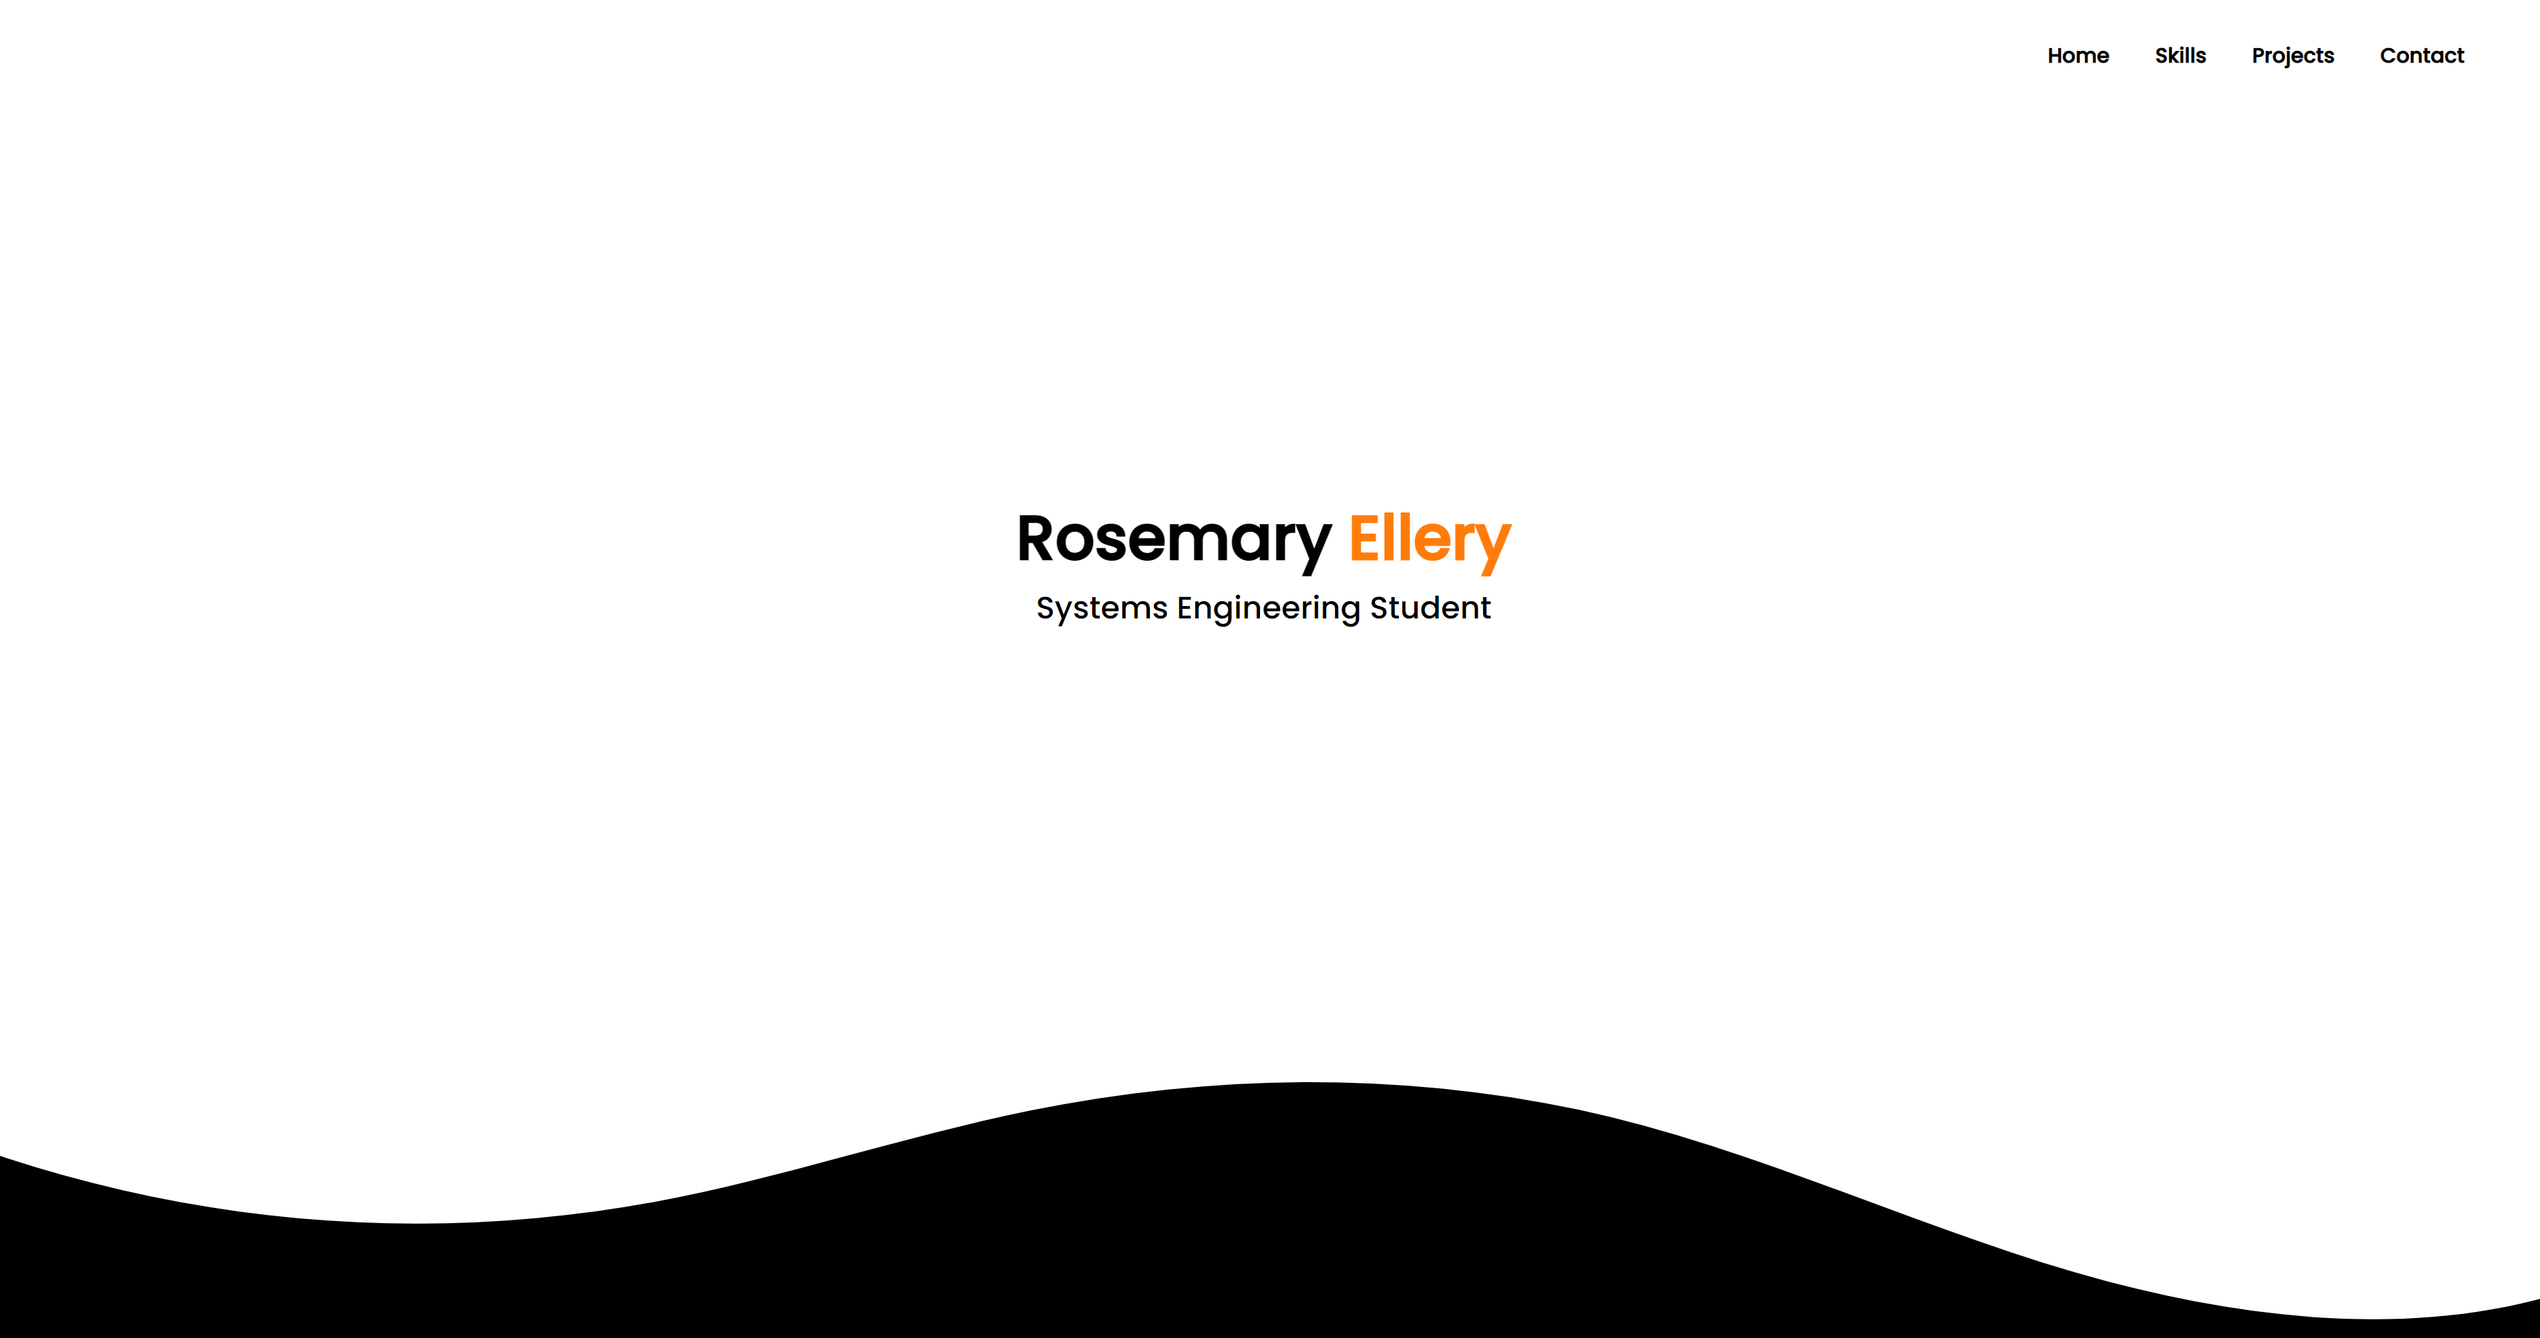
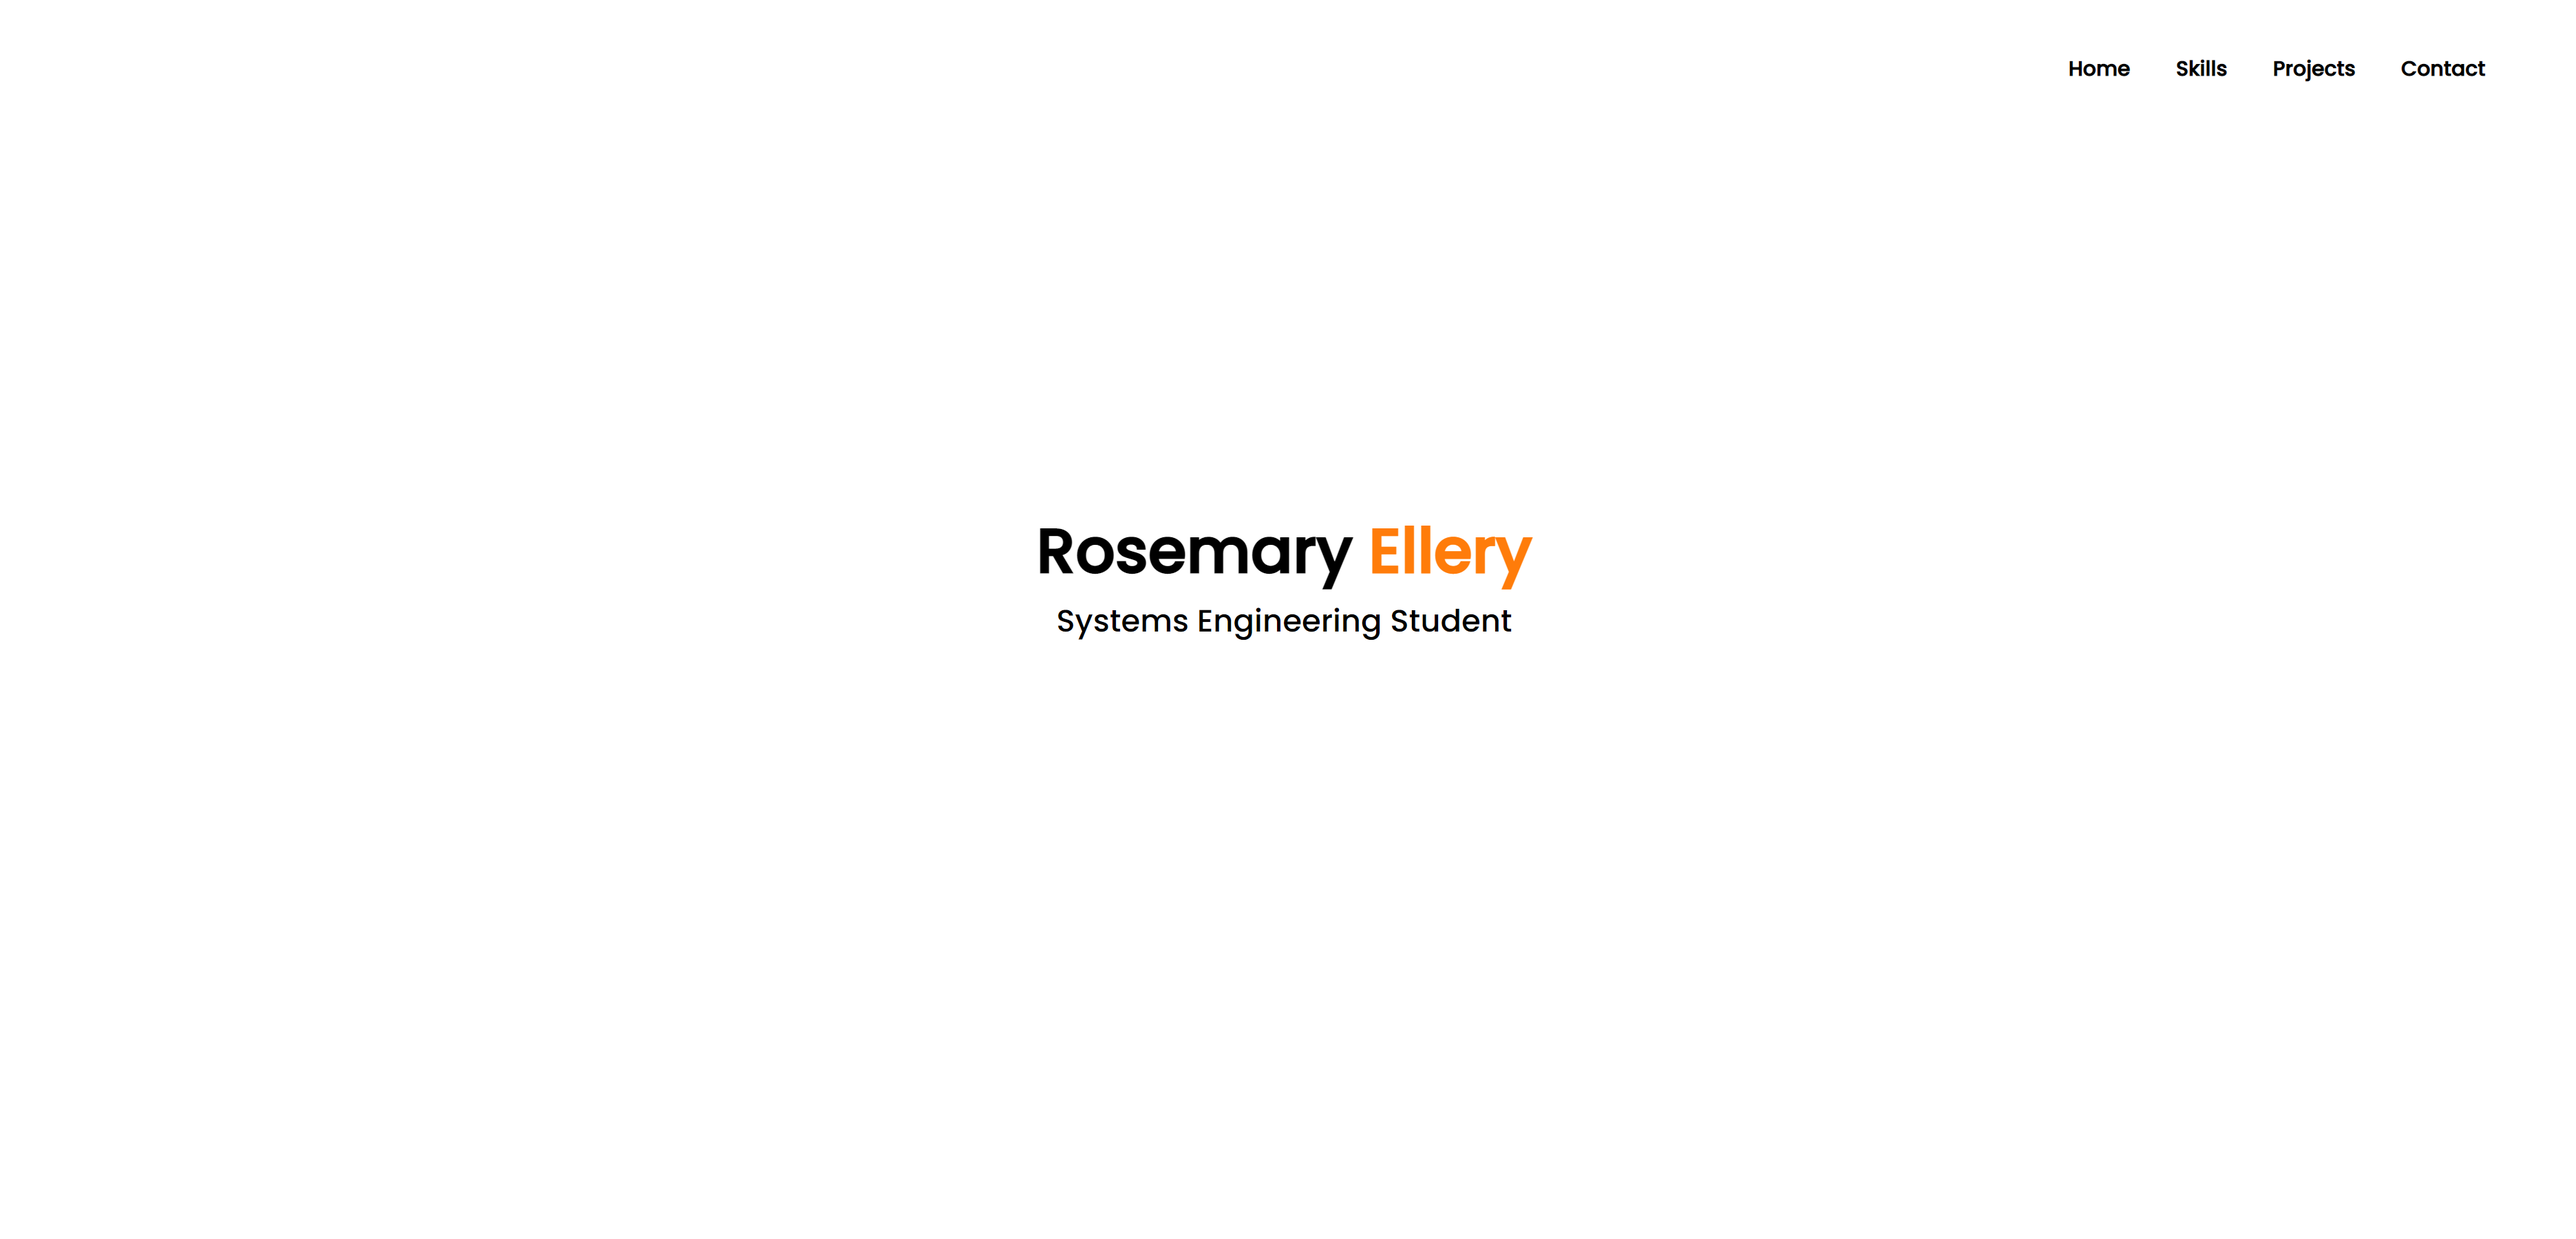
Links included.

diff --git a/index.html b/index.html
@@ -21,19 +21,19 @@
                 <path fill="#FF7C0A" d="M36.1,-54.9C45.3,-50.3,50.2,-37.7,56.6,-25.4C62.9,-13,70.7,-0.9,69,9.9C67.4,20.6,56.4,30,46.5,39C36.7,48,27.9,56.7,18.5,56.4C9.1,56.1,-0.9,46.8,-14.8,45.1C-28.7,43.5,-46.5,49.6,-51.9,44.4C-57.3,39.2,-50.3,22.7,-50.5,8.5C-50.6,-5.8,-57.9,-17.7,-57.8,-29.9C-57.7,-42,-50.3,-54.3,-39.4,-58.2C-28.6,-62,-14.3,-57.4,-0.4,-56.8C13.5,-56.1,26.9,-59.5,36.1,-54.9Z" transform="translate(100 100)" />
             </svg>
         </div> -->
-        <div class="navbar">
+        <div class="navbar" id="navbar">
             <nav class="navlinks">
                 <ul>
-                    <li><a href="#">Home</a></li>
-                    <li><a href="#">Skills</a></li>
-                    <li><a href="#">Projects</a></li>
-                    <li><a href="#">Contact</a></li>
+                    <li><a href="#navbar">Home</a></li>
+                    <li><a href="#skills">Skills</a></li>
+                    <li><a href="#projects">Projects</a></li>
+                    <li><a href="#contact">Contact</a></li>
                     <li></li>
                     <li></li>
                 </ul>
             </nav>
         </div>
-        <div class="home">
+        <div class="home" id="home">
             <h1>Rosemary <span style="color:#ff7c0a;">Ellery</span></h1>
             <div class="caption">
                 <p>Systems Engineering Student</p>
@@ -46,8 +46,10 @@
             <path d="M985.66,92.83C906.67,72,823.78,31,743.84,14.19c-82.26-17.34-168.06-16.33-250.45.39-57.84,11.73-114,31.07-172,41.86A600.21,600.21,0,0,1,0,27.35V120H1200V95.8C1132.19,118.92,1055.71,111.31,985.66,92.83Z" class="shape-fill"></path>
         </svg>
     </div> -->
-    <div class="skills">
+    <div class="skills" id="skills">
         <h1>Skills</h1>
+        <p>Python (inc. Django) - JavaScript (inc. React.js, Node.js) - C++ - HTML/CSS - MATLAB/Simulink - Neo4j - SQL/CQL - Git </p>
+        <!-- <div class="overlay"></div> -->
     </div>
     <!-- <div class="wave-bottom">
         <svg data-name="Layer 1" xmlns="http://www.w3.org/2000/svg" viewBox="0 0 1200 120" preserveAspectRatio="none">
@@ -55,34 +57,7 @@
         </svg>
     </div> -->
 
-    <div class="projects">
-        <div class="project-item">
-            <div class="project-card">
-                <div class="project-img">
-                    <img src="resources/images/logicgatevisualiserimage.png"/>
-                </div>
-                <div class="project-info">
-                    <h1 class="project-title">Perceptron Logic Gates Visualiser</h1>
-                    <hr class="project-divider"/>
-                    <p class="project-description">An app developed using the Django web framework that allows users to select a common logic gate, train a perceptron for its functionality, and view the resulting decision boundary plot.</p>
-                    <div class="project-tag">Python</div>
-                    <div class="project-tag">Django</div>
-                    <div class="project-tag">HTML/CSS</div>
-                    <div class="project-tag">Git</div>
-                </div>
-                <div class="hover-card">
-                    <h3>Visit Project</h3>
-                    <div class="icons">
-                        <div class="icon">
-                            <i class="fa fa-github"></i>
-                        </div>
-                        <div class="icon">
-                            <i class="fa fa-link" style="font-size:2.5rem"></i>
-                        </div>
-                    </div>
-                </div>
-            </div>
-        </div>
+    <div class="projects" id="projects">
         <div class="project-item">
             <div class="project-card">
                 <div class="project-img">
@@ -101,10 +76,40 @@
                     <h3>Visit Project</h3>
                     <div class="icons">
                         <div class="icon">
-                            <i class="fa fa-github"></i>
+                            <a href="https://rosemaryellery.github.io/wiki-holes/" target="_blank">
+                                <i class="fa fa-link"></i>
+                            </a>
                         </div>
                         <div class="icon">
-                            <i class="fa fa-link" style="font-size:2.5rem"></i>
+                            <a href="https://github.com/rosemaryellery/wiki-holes" target="_blank">
+                                <i class="fa fa-github"></i>
+                            </a>
+                        </div>
+                    </div>
+                </div>
+            </div>
+        </div>
+        <div class="project-item">
+            <div class="project-card">
+                <div class="project-img">
+                    <img src="resources/images/logicgatevisualiserimage.png"/>
+                </div>
+                <div class="project-info">
+                    <h1 class="project-title">Perceptron Logic Gates Visualiser</h1>
+                    <hr class="project-divider"/>
+                    <p class="project-description">An app developed using the Django web framework that allows users to select a common logic gate, train a perceptron for its functionality, and view the resulting decision boundary plot.</p>
+                    <div class="project-tag">Python</div>
+                    <div class="project-tag">Django</div>
+                    <div class="project-tag">HTML/CSS</div>
+                    <div class="project-tag">Git</div>
+                </div>
+                <div class="hover-card">
+                    <h3>Visit Project</h3>
+                    <div class="icons">
+                        <div class="icon">
+                            <a href="https://github.com/rosemaryellery/logic-gates-visualiser" target="_blank">
+                                <i class="fa fa-github"></i>
+                            </a>
                         </div>
                     </div>
                 </div>
@@ -126,10 +131,14 @@
                     <h3>Visit Project</h3>
                     <div class="icons">
                         <div class="icon">
-                            <i class="fa fa-github"></i>
+                            <a href="https://github.com/rosemaryellery/portfolio" target="_blank">
+                                <i class="fa fa-github"></i>
+                            </a>
                         </div>
                         <div class="icon">
-                            <i class="fa fa-link" style="font-size:2.5rem"></i>
+                            <a href="#navbar">
+                                <i class="fa fa-link" style="font-size:2.5rem"></i>
+                            </a>
                         </div>
                     </div>
                 </div>
@@ -141,7 +150,7 @@
             <path d="M985.66,92.83C906.67,72,823.78,31,743.84,14.19c-82.26-17.34-168.06-16.33-250.45.39-57.84,11.73-114,31.07-172,41.86A600.21,600.21,0,0,1,0,27.35V120H1200V95.8C1132.19,118.92,1055.71,111.31,985.66,92.83Z" class="shape-fill"></path>
         </svg>
     </div> -->
-    <footer>
+    <footer id="contact">
         <h1>Contact me:</h1>
         <div class="icons">
             <div class="icon">

diff --git a/resources/css/style.css b/resources/css/style.css
@@ -102,11 +102,37 @@ a {
     color: white;
     text-align: center;
     margin-bottom: 10rem;
-    padding: 0;
+    padding-top: 5rem;
+    padding-bottom: 5rem;
 }
 
 .skills h1 {
     font-size: 60px;
+    margin-bottom: 2rem;
+    /* z-index: 2; */
+}
+
+.skills p {
+    font-weight: lighter;
+    font-size: 1.2rem;
+    /* z-index: 2; */
+}
+
+.overlay {
+    position: absolute;
+    left: 0;
+    top: 0;
+    background-color:#ff7c0a;
+    overflow: hidden;
+    width: 0;
+    height: 10%;
+    transition: .5s ease;
+    /* z-index: 1; */
+    object-fit: contain;
+}
+
+.skills:hover .overlay{
+    width: 100%;
 }
 
 .wave-bottom {
@@ -232,8 +258,6 @@ a {
 
 .footer-wave {
     position: relative;
-    bottom: 0;
-    left: 0;
     width: 100%;
     overflow: hidden;
     line-height: 0;
